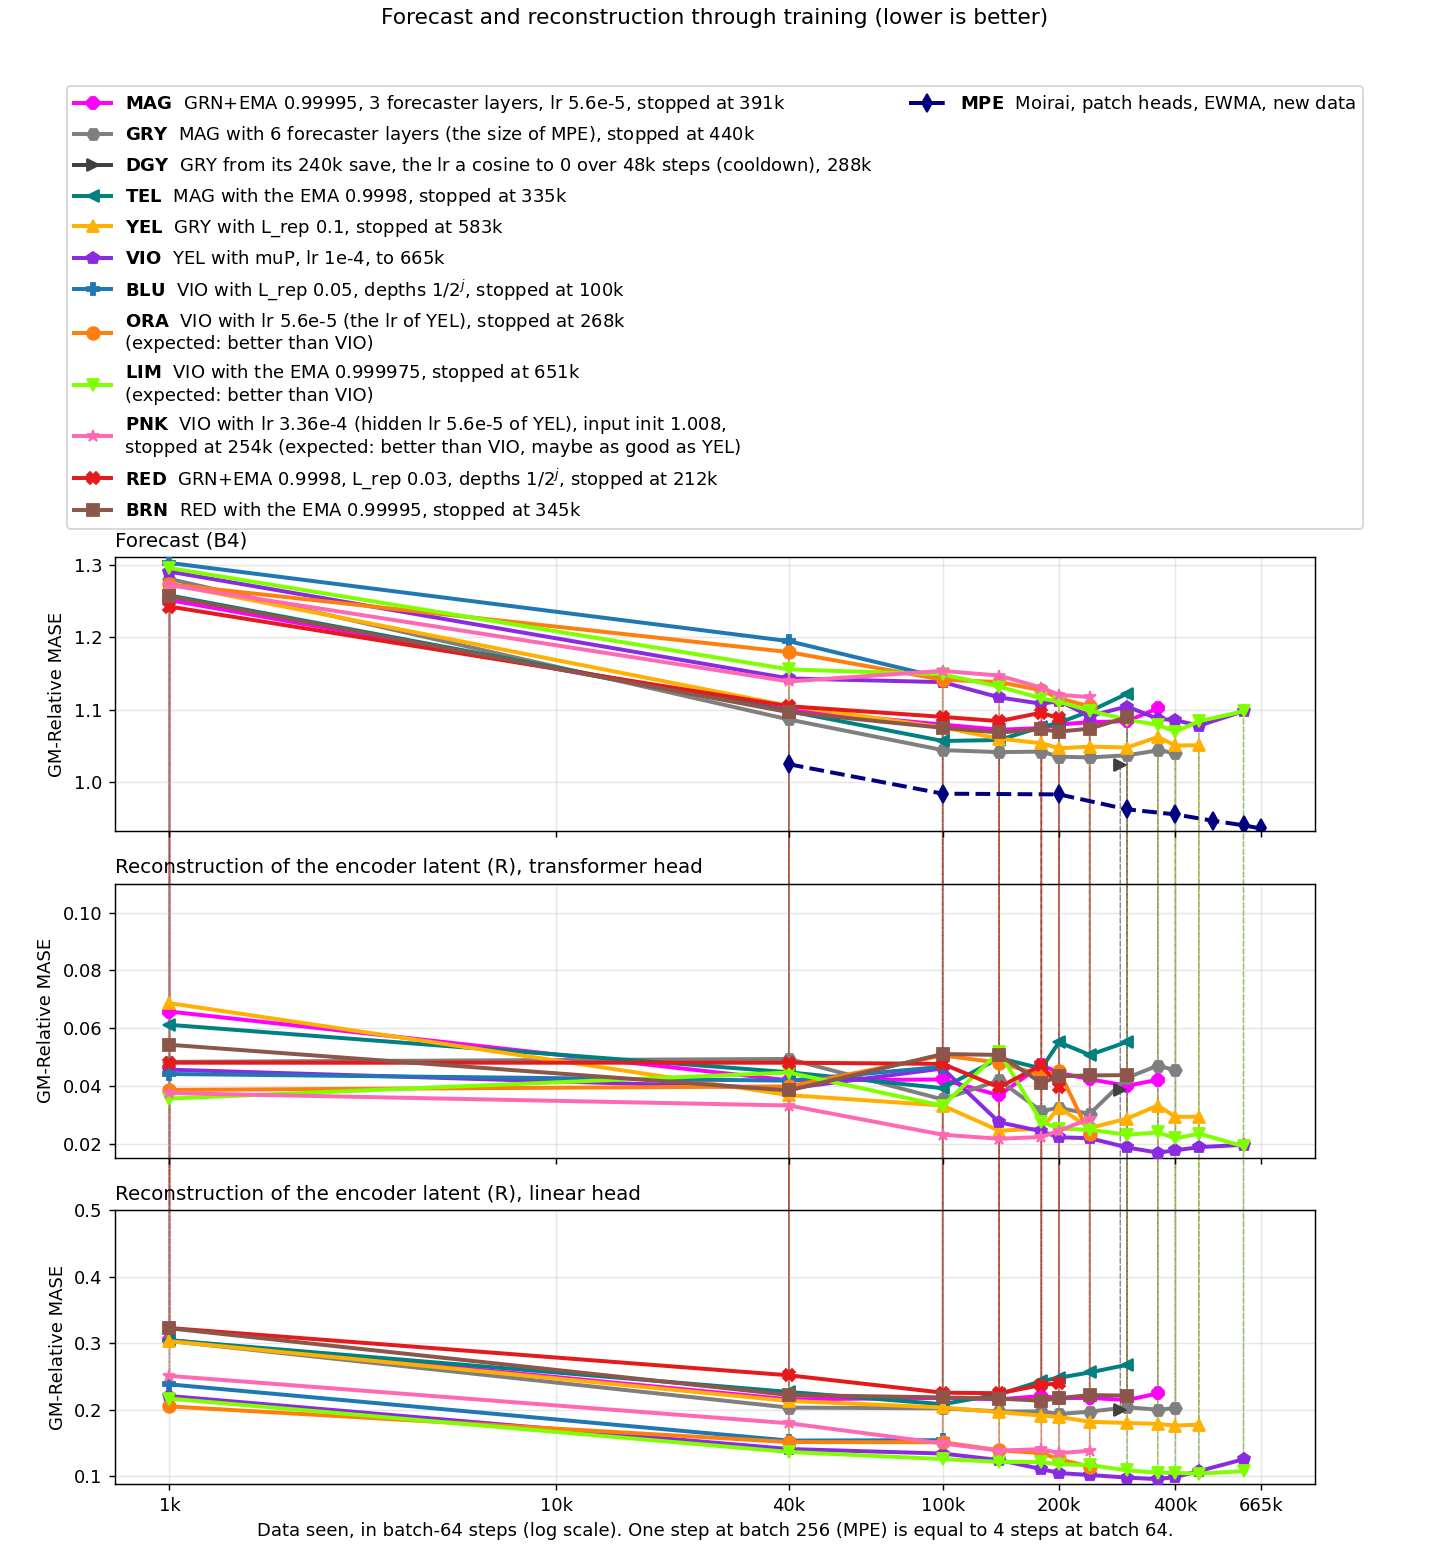
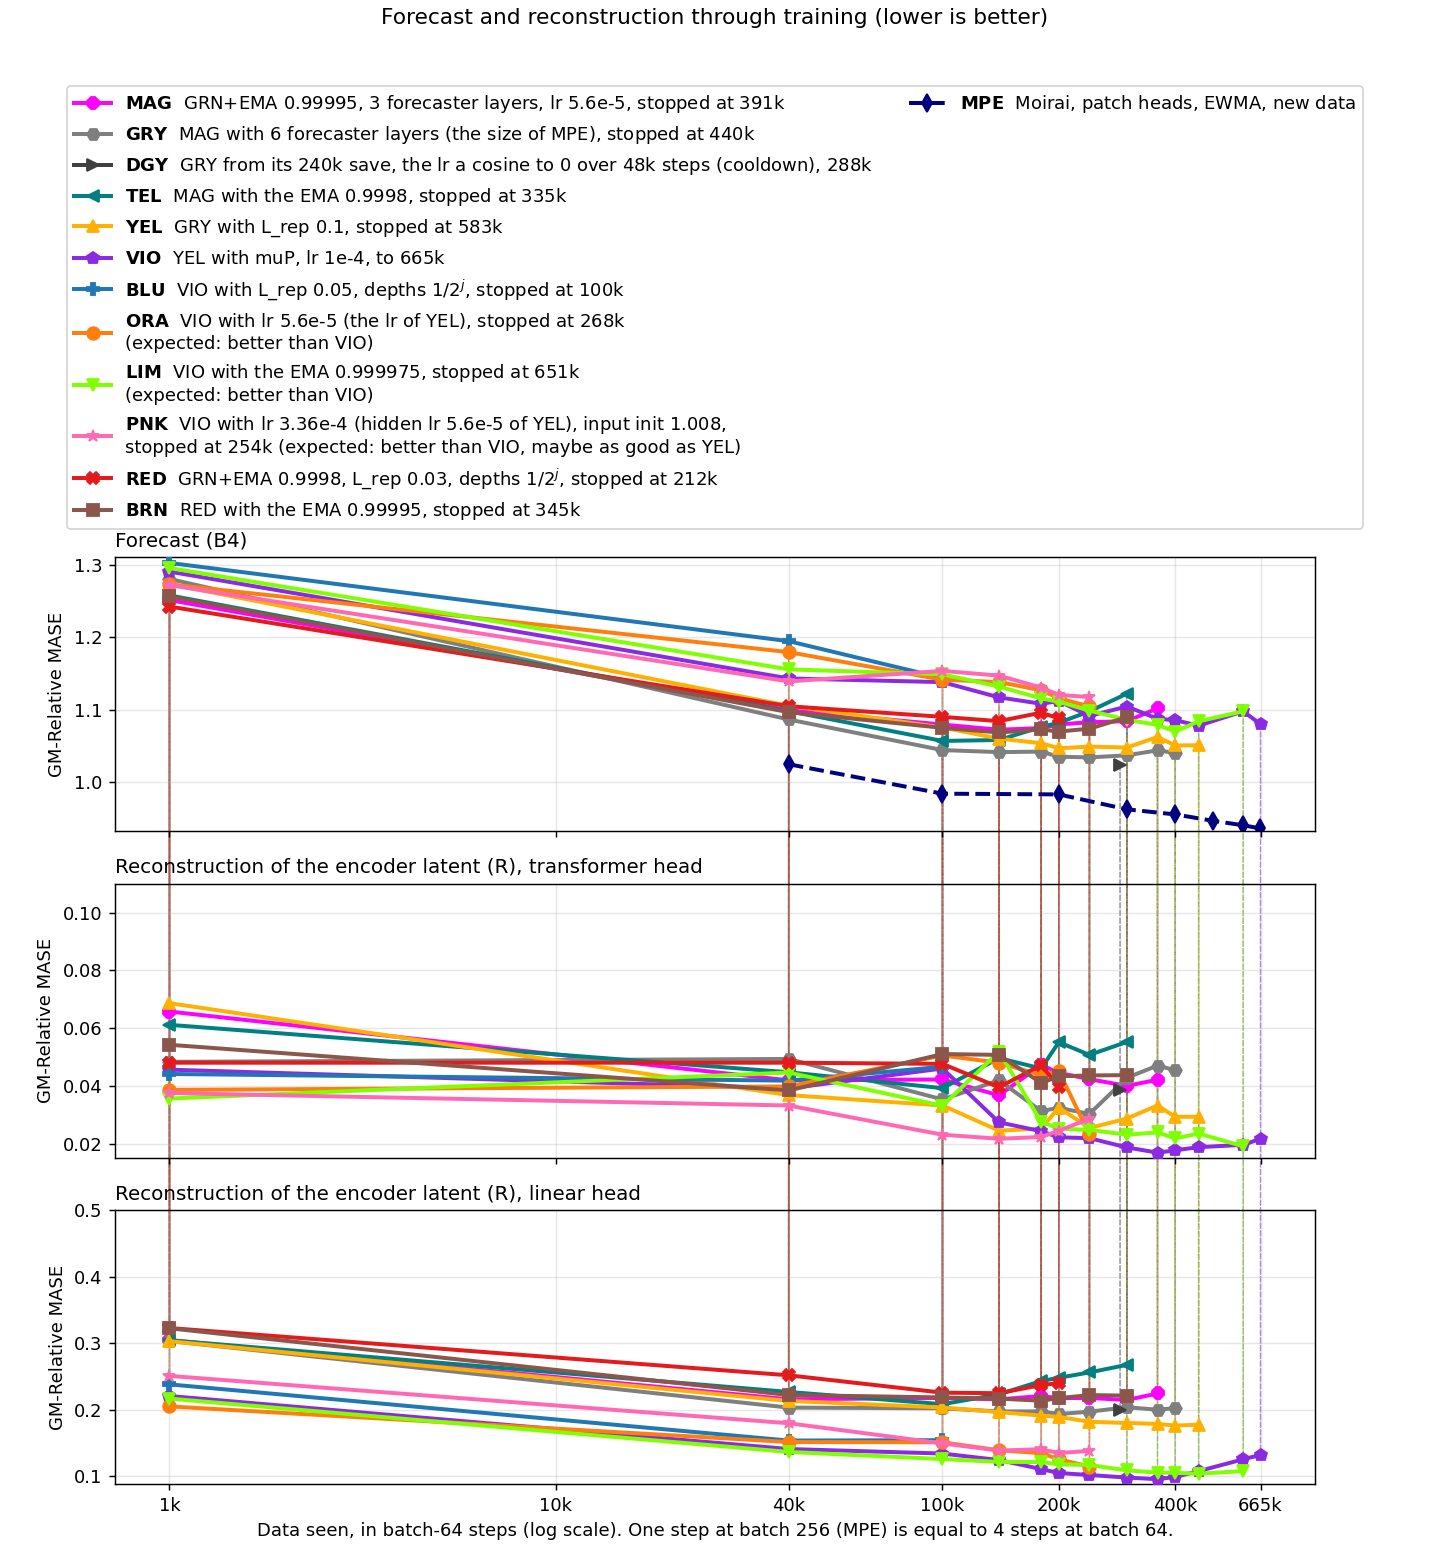
freq_family report: violet at 665k, the end of its training (forecast 1.0799, R 0.0218 and 0.1323)

diff --git a/reports/2026-10-10_frequency_family_head/frequency_family_head.md b/reports/2026-10-10_frequency_family_head/frequency_family_head.md
@@ -10,7 +10,9 @@ At 200k, the forecast MASE is 1.0467 for yellow (grey with the L_rep weight 0.1 
 DGY (dark grey) is grey from its 240k save, with the learning rate annealed from 5.6e-5 to 0 by a cosine over 48k steps (the cooldown of a WSD schedule).
 Its forecast MASE at 288k is 1.0238, the lowest of the report.
 Its R scores at 288k are 0.0388 (transformer head) and 0.2000 (linear head), between the scores of grey at 240k (0.0304 and 0.1973) and at 300k (0.0429 and 0.2039).
-Violet has its lowest forecast MASE, 1.0779, at 460k, and 1.0977 at 600k.
+Violet has its lowest forecast MASE, 1.0779, at 460k.
+At 665k, the end of its training, it gets 1.0799 (1.0977 at 600k).
+Its R scores at 665k are 0.0218 (transformer head) and 0.1323 (linear head).
 
 ## Learning rate
 
